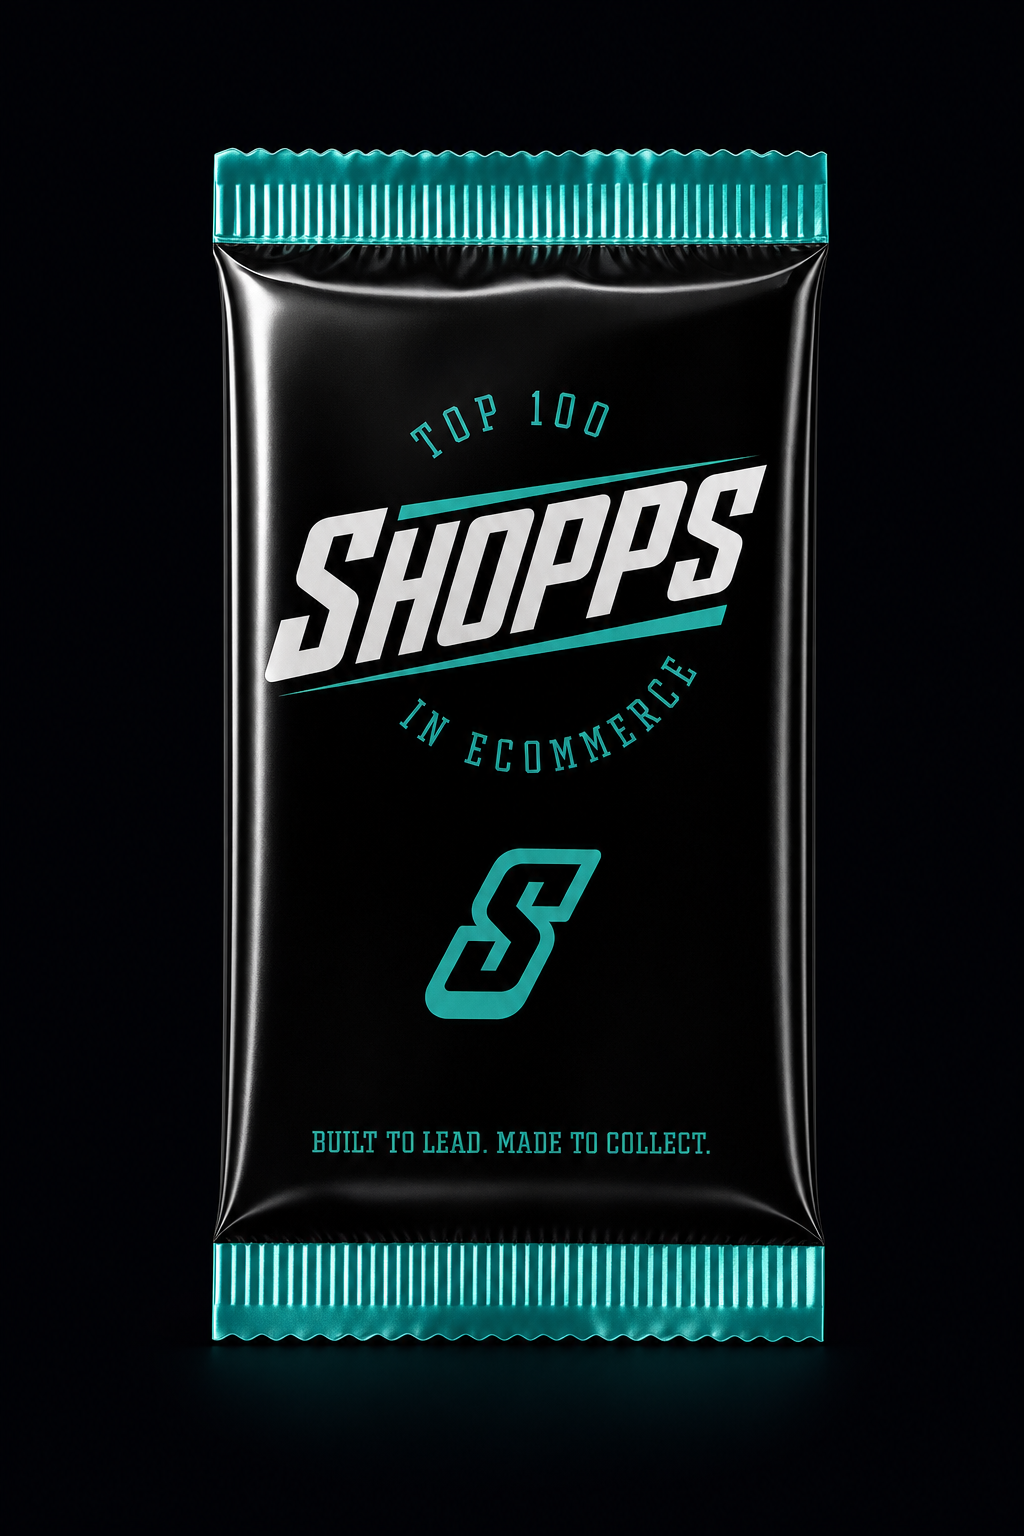
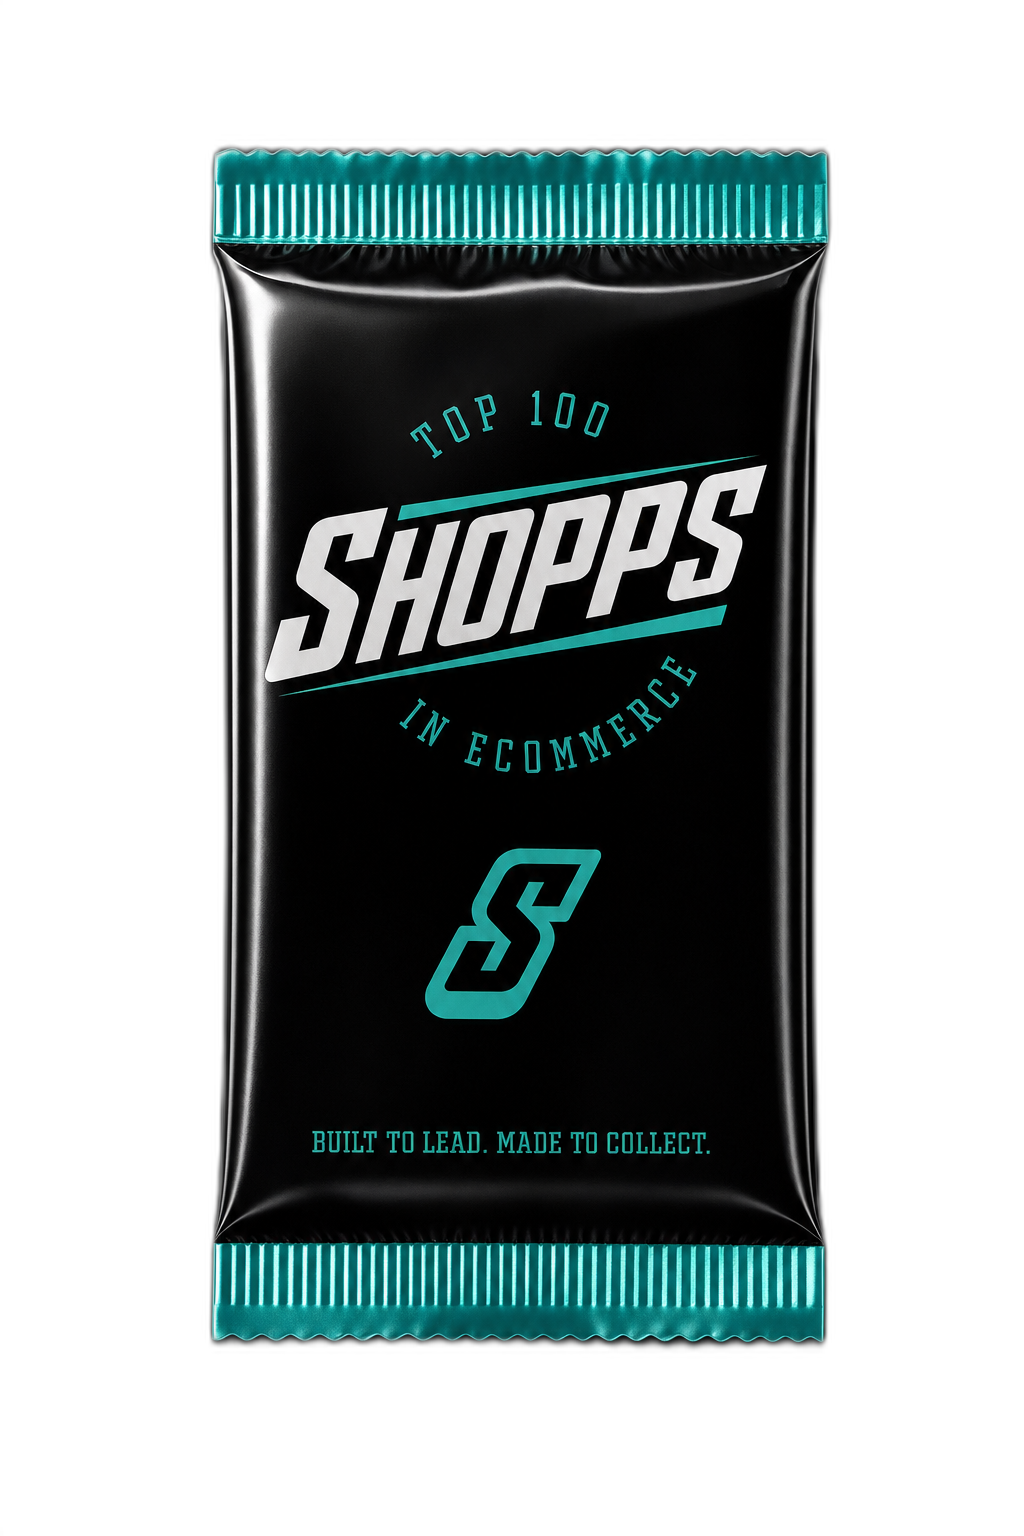
Hero pack: transparent bg, better headline size, teal glow on pack

diff --git a/app/globals.css b/app/globals.css
@@ -1843,8 +1843,8 @@ body.nav-open .nav-hamburger span:nth-child(3) { transform: translateY(-7px) rot
 }
 .hiw-hero-pack {
   flex-shrink: 0;
-  width: clamp(160px, 18vw, 260px);
-  filter: drop-shadow(0 24px 60px rgba(0,0,0,0.7));
+  width: clamp(180px, 20vw, 280px);
+  filter: drop-shadow(0 32px 60px rgba(3,159,157,0.15)), drop-shadow(0 16px 40px rgba(0,0,0,0.5));
 }
 .hiw-hero-pack img {
   width: 100%;
@@ -1861,12 +1861,12 @@ body.nav-open .nav-hamburger span:nth-child(3) { transform: translateY(-7px) rot
 }
 .hiw-h1 {
   font-family: var(--font-antonio);
-  font-size: clamp(3.5rem, 8.5vw, 7rem);
+  font-size: clamp(3rem, 6.5vw, 5.8rem);
   font-weight: 400;
   color: var(--white);
   text-transform: uppercase;
-  line-height: 0.9;
-  margin: 6px 0 20px;
+  line-height: 0.92;
+  margin: 8px 0 22px;
   letter-spacing: 0.01em;
 }
 .hiw-desc {
